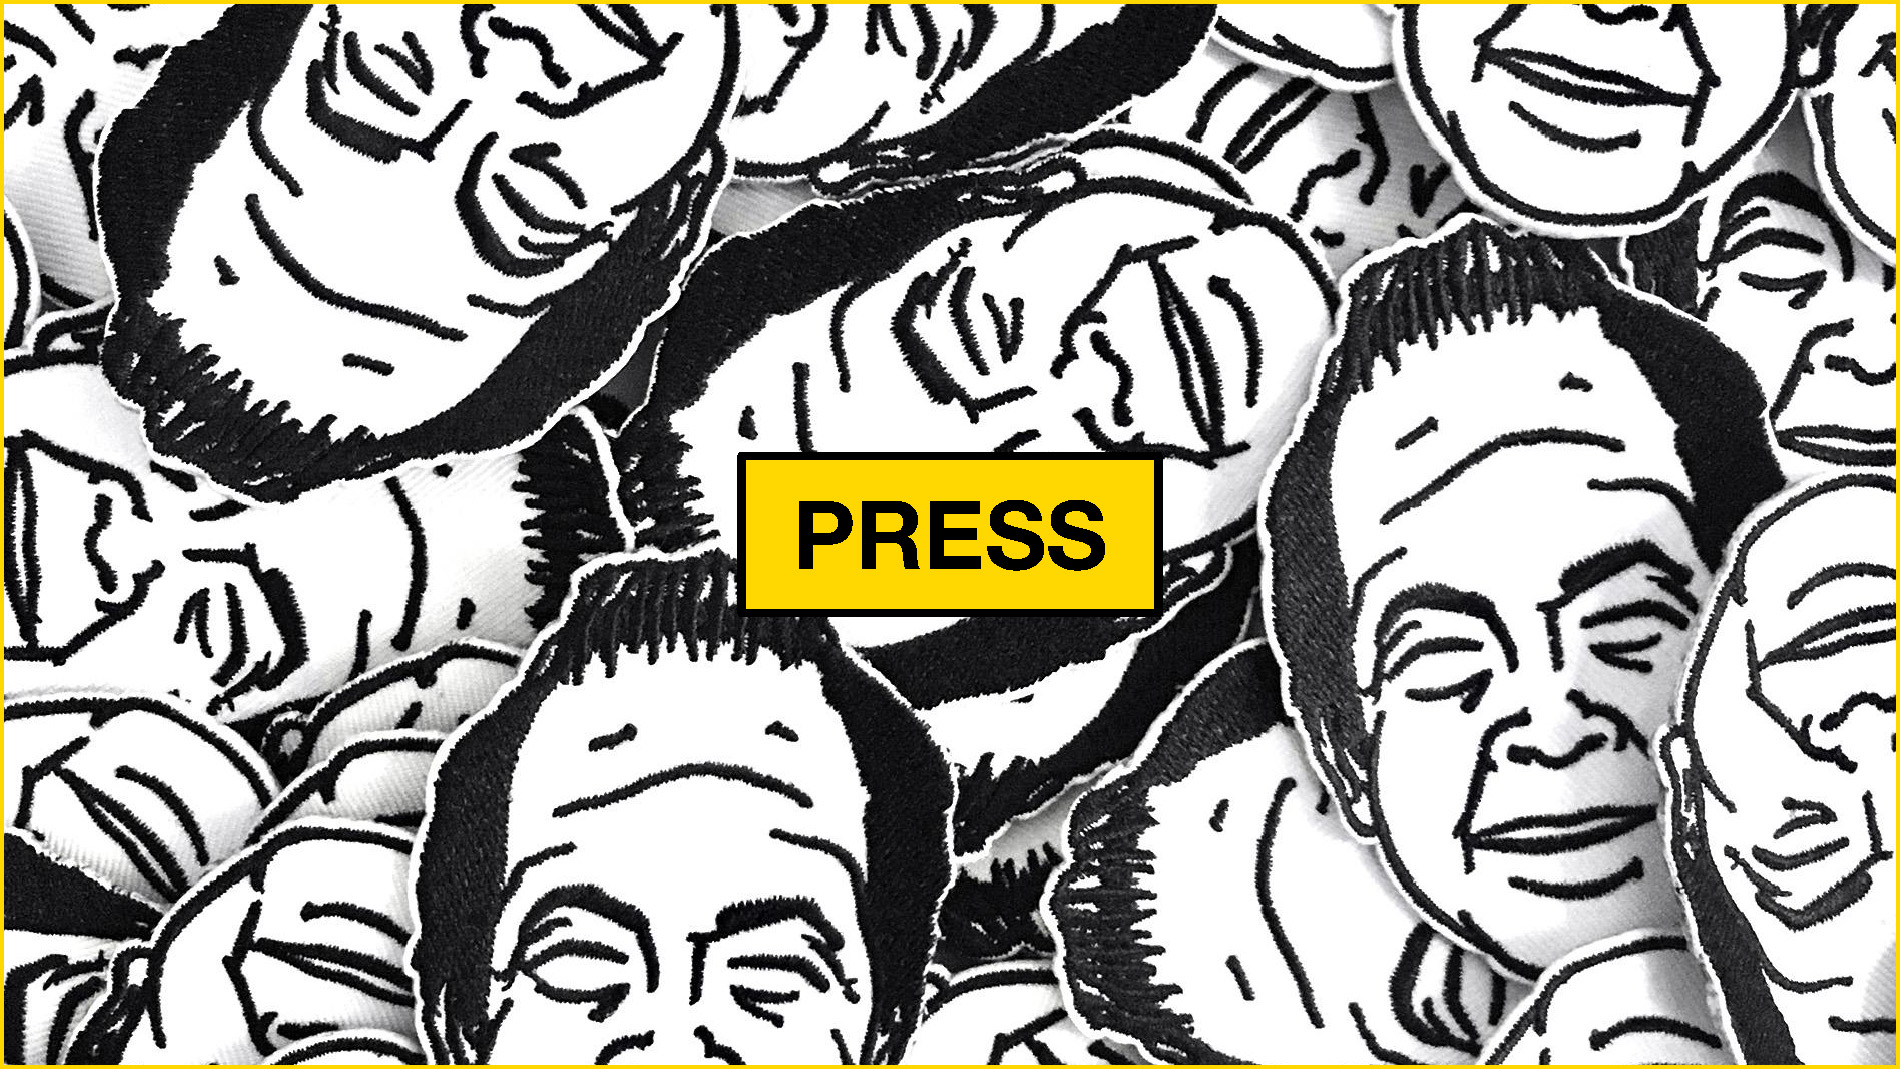
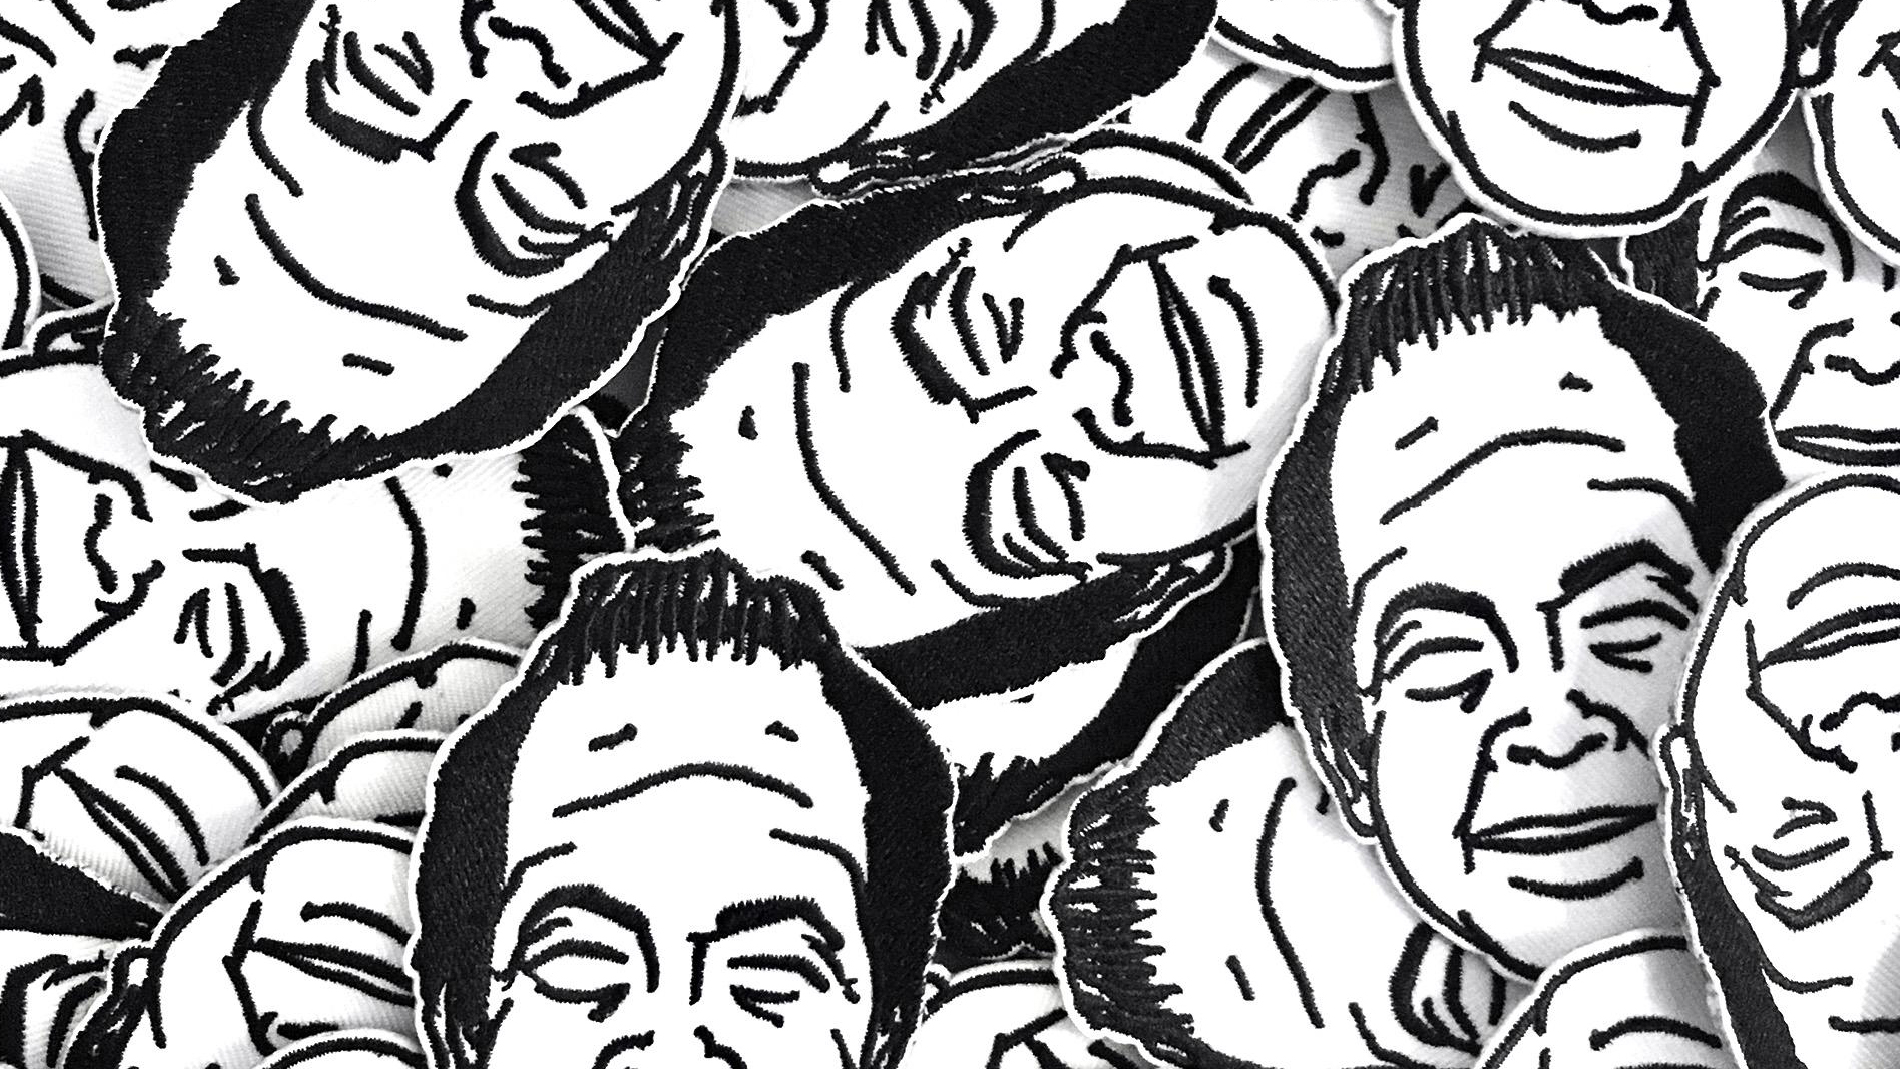
pass 2

Changed region(s): [[0.0, 0.0, 1.0, 1.0], [0.3726, 0.4013, 0.6211, 0.5865]]

diff --git a/index.html b/index.html
@@ -13,46 +13,46 @@
   <meta property="og:image"
     content="media/promo.jpg" />
   <link rel="stylesheet" href="fonts/typefaces.css" type="text/css" />
+  <link rel="stylesheet" href="library/reset.css" type="text/css" />
   <link rel="stylesheet" href="library/style.css" type="text/css" />
 </head>
 
 <body>
     
-<figure class="wp-block-image size-full"><img fetchpriority="high" decoding="async" width="1280" height="720" src="media/CSC-desktop-18.png" alt="" class="wp-image-5995" srcset="media/CSC-desktop-18.png 1280w, media/CSC-desktop-18-700x394.png 700w, media/CSC-desktop-18-1200x675.png 1200w, media/CSC-desktop-18-300x169.png 300w, media/CSC-desktop-18-768x432.png 768w" sizes="(max-width: 1280px) 100vw, 1280px"></figure>
+<figure class="yellow-border"><img fetchpriority="high" decoding="async" width="2560" height="1440" src="media/csc-desktop-01.jpg" alt=""></figure>
 
-<figure class="wp-block-image size-full"><img decoding="async" width="2560" height="1440" src="media/CSC-desktop-17-scaled.jpg" alt="" class="wp-image-5994" srcset="media/CSC-desktop-17-scaled.jpg 2560w, media/CSC-desktop-17-700x394.jpg 700w, media/CSC-desktop-17-1200x675.jpg 1200w, media/CSC-desktop-17-300x169.jpg 300w, media/CSC-desktop-17-768x432.jpg 768w, media/CSC-desktop-17-1536x864.jpg 1536w, media/CSC-desktop-17-2048x1152.jpg 2048w" sizes="(max-width: 2560px) 100vw, 2560px"></figure>
+<figure class="yellow-border"><figcaption><h2>Community</h2></figcaption><img decoding="async" width="1566" height="8676" src="media/csc-desktop-02.jpg" alt="" ></figure>
 
-<figure class="wp-block-image size-full"><img decoding="async" width="1900" height="1069" src="media/CSC-desktop-16.jpg" alt="" class="wp-image-5993" srcset="media/CSC-desktop-16.jpg 1900w, media/CSC-desktop-16-700x394.jpg 700w, media/CSC-desktop-16-1200x675.jpg 1200w, media/CSC-desktop-16-300x169.jpg 300w, media/CSC-desktop-16-768x432.jpg 768w, media/CSC-desktop-16-1536x864.jpg 1536w" sizes="(max-width: 1900px) 100vw, 1900px"></figure>
+<figure><img loading="lazy" decoding="async" width="4000" height="2250" src="media/csc-desktop-03.jpg" alt="" ></figure>
 
-<figure class="wp-block-image size-full"><img loading="lazy" decoding="async" width="2560" height="1440" src="media/CSC-desktop-15-scaled.jpg" alt="" class="wp-image-5992" srcset="media/CSC-desktop-15-scaled.jpg 2560w, media/CSC-desktop-15-700x394.jpg 700w, media/CSC-desktop-15-1200x675.jpg 1200w, media/CSC-desktop-15-300x169.jpg 300w, media/CSC-desktop-15-768x432.jpg 768w, media/CSC-desktop-15-1536x864.jpg 1536w, media/CSC-desktop-15-2048x1152.jpg 2048w" sizes="auto, (max-width: 2560px) 100vw, 2560px"></figure>
+<figure><img loading="lazy" decoding="async" width="4000" height="2250"  src="media/csc-desktop-04.jpg" alt="" ></figure>
 
-<figure class="wp-block-image size-full"><img loading="lazy" decoding="async" width="1900" height="1069" src="media/CSC-desktop-14.jpg" alt="" class="wp-image-5991" srcset="media/CSC-desktop-14.jpg 1900w, media/CSC-desktop-14-700x394.jpg 700w, media/CSC-desktop-14-1200x675.jpg 1200w, media/CSC-desktop-14-300x169.jpg 300w, media/CSC-desktop-14-768x432.jpg 768w, media/CSC-desktop-14-1536x864.jpg 1536w" sizes="auto, (max-width: 1900px) 100vw, 1900px"></figure>
+<figure class="yellow-border"><div class="black-matte"><img loading="lazy" decoding="async" width="2046" height="1128"  src="media/csc-desktop-05.jpg" alt="" ></div></figure>
 
-<figure class="wp-block-image size-full"><img loading="lazy" decoding="async" width="2240" height="1305" src="media/CSC-desktop-13.jpg" alt="" class="wp-image-5990" srcset="media/CSC-desktop-13.jpg 2240w, media/CSC-desktop-13-700x408.jpg 700w, media/CSC-desktop-13-1200x699.jpg 1200w, media/CSC-desktop-13-300x175.jpg 300w, media/CSC-desktop-13-768x447.jpg 768w, media/CSC-desktop-13-1536x895.jpg 1536w, media/CSC-desktop-13-2048x1193.jpg 2048w" sizes="auto, (max-width: 2240px) 100vw, 2240px"></figure>
+<figure class="yellow-border"><figcaption><h2>Collaborations</h2></figcaption><img loading="lazy" decoding="async" width="2950" height="1646"  src="media/csc-desktop-06.jpg" alt="" ></figure>
 
-<figure class="wp-block-image size-full"><img loading="lazy" decoding="async" width="2020" height="1137" src="media/CSC-desktop-12.png" alt="" class="wp-image-5989" srcset="media/CSC-desktop-12.png 2020w, media/CSC-desktop-12-700x394.png 700w, media/CSC-desktop-12-1200x675.png 1200w, media/CSC-desktop-12-300x169.png 300w, media/CSC-desktop-12-768x432.png 768w, media/CSC-desktop-12-1536x865.png 1536w" sizes="auto, (max-width: 2020px) 100vw, 2020px"></figure>
+<figure class="yellow-border"><img loading="lazy" decoding="async" width="3000" height="1688"  src="media/csc-desktop-07.jpg" alt="" ></figure>
 
-<figure class="wp-block-image size-full"><img loading="lazy" decoding="async" width="2560" height="1440" src="media/CSC-desktop-11-scaled.jpg" alt="" class="wp-image-5988" srcset="media/CSC-desktop-11-scaled.jpg 2560w, media/CSC-desktop-11-700x394.jpg 700w, media/CSC-desktop-11-1200x675.jpg 1200w, media/CSC-desktop-11-300x169.jpg 300w, media/CSC-desktop-11-768x432.jpg 768w, media/CSC-desktop-11-1536x864.jpg 1536w, media/CSC-desktop-11-2048x1152.jpg 2048w" sizes="auto, (max-width: 2560px) 100vw, 2560px"></figure>
+<figure class="yellow-border"><figcaption><h2>Exhibitions</h2></figcaption><img loading="lazy" decoding="async" width="1910" height="1075"  src="media/csc-desktop-08.jpg" alt="" ></figure>
 
-<figure class="wp-block-image size-full"><img loading="lazy" decoding="async" width="2320" height="1305" src="media/CSC-desktop-10.png" alt="" class="wp-image-5987" srcset="media/CSC-desktop-10.png 2320w, media/CSC-desktop-10-700x394.png 700w, media/CSC-desktop-10-1200x675.png 1200w, media/CSC-desktop-10-300x169.png 300w, media/CSC-desktop-10-768x432.png 768w, media/CSC-desktop-10-1536x864.png 1536w, media/CSC-desktop-10-2048x1152.png 2048w" sizes="auto, (max-width: 2320px) 100vw, 2320px"></figure>
+<figure class="yellow-border"><img loading="lazy" decoding="async" width="3000" height="1688"  src="media/csc-desktop-09.jpg" alt="" ></figure>
 
-<figure class="wp-block-image size-full"><img loading="lazy" decoding="async" width="2560" height="1440" src="media/CSC-desktop-9-scaled.jpg" alt="" class="wp-image-5986" srcset="media/CSC-desktop-9-scaled.jpg 2560w, media/CSC-desktop-9-700x394.jpg 700w, media/CSC-desktop-9-1200x675.jpg 1200w, media/CSC-desktop-9-300x169.jpg 300w, media/CSC-desktop-9-768x432.jpg 768w, media/CSC-desktop-9-1536x864.jpg 1536w, media/CSC-desktop-9-2048x1152.jpg 2048w" sizes="auto, (max-width: 2560px) 100vw, 2560px"></figure>
+<figure class="yellow-border"><figcaption><h2>Events</h2></figcaption><img loading="lazy" decoding="async" width="2320" height="1305"  src="media/csc-desktop-10.png" alt="" ></figure>
 
-<figure class="wp-block-image size-full"><img loading="lazy" decoding="async" width="1910" height="1075" src="media/CSC-desktop-8.jpg" alt="" class="wp-image-5985" srcset="media/CSC-desktop-8.jpg 1910w, media/CSC-desktop-8-700x394.jpg 700w, media/CSC-desktop-8-1200x675.jpg 1200w, media/CSC-desktop-8-300x169.jpg 300w, media/CSC-desktop-8-768x432.jpg 768w, media/CSC-desktop-8-1536x865.jpg 1536w" sizes="auto, (max-width: 1910px) 100vw, 1910px"></figure>
+<figure class="yellow-border"><img loading="lazy" decoding="async" width="3000" height="1688"  src="media/csc-desktop-11.jpg" alt="" ></figure>
 
-<figure class="wp-block-image size-full"><img loading="lazy" decoding="async" width="2560" height="1440" src="media/CSC-desktop-7-scaled.jpg" alt="" class="wp-image-5984" srcset="media/CSC-desktop-7-scaled.jpg 2560w, media/CSC-desktop-7-700x394.jpg 700w, media/CSC-desktop-7-1200x675.jpg 1200w, media/CSC-desktop-7-300x169.jpg 300w, media/CSC-desktop-7-768x432.jpg 768w, media/CSC-desktop-7-1536x864.jpg 1536w, media/CSC-desktop-7-2048x1152.jpg 2048w" sizes="auto, (max-width: 2560px) 100vw, 2560px"></figure>
+<figure class="red-border"><figcaption><h2>Printed Matter</h2></figcaption><img loading="lazy" decoding="async" width="2020" height="1137"  src="media/csc-desktop-12.png" alt="" ></figure>
 
-<figure class="wp-block-image size-full"><img loading="lazy" decoding="async" width="1950" height="1097" src="media/CSC-desktop-6.jpg" alt="" class="wp-image-5983" srcset="media/CSC-desktop-6.jpg 1950w, media/CSC-desktop-6-700x394.jpg 700w, media/CSC-desktop-6-1200x675.jpg 1200w, media/CSC-desktop-6-300x169.jpg 300w, media/CSC-desktop-6-768x432.jpg 768w, media/CSC-desktop-6-1536x864.jpg 1536w" sizes="auto, (max-width: 1950px) 100vw, 1950px"></figure>
+<figure class="yellow-border"><img loading="lazy" decoding="async" width="2240" height="1305"  src="media/csc-desktop-13.jpg" alt="" ></figure>
 
-<figure class="wp-block-image size-full"><img loading="lazy" decoding="async" width="2130" height="1199" src="media/CSC-desktop-5.jpg" alt="" class="wp-image-5982" srcset="media/CSC-desktop-5.jpg 2130w, media/CSC-desktop-5-700x394.jpg 700w, media/CSC-desktop-5-1200x675.jpg 1200w, media/CSC-desktop-5-300x169.jpg 300w, media/CSC-desktop-5-768x432.jpg 768w, media/CSC-desktop-5-1536x865.jpg 1536w, media/CSC-desktop-5-2048x1153.jpg 2048w" sizes="auto, (max-width: 2130px) 100vw, 2130px"></figure>
+<figure class="yellow-border"><figcaption><h2>Merch</h2></figcaption><img loading="lazy" decoding="async" width="1900" height="1069"  src="media/csc-desktop-14.jpg" alt="" ></figure>
 
-<figure class="wp-block-image size-full"><img loading="lazy" decoding="async" width="2560" height="1440" src="media/CSC-desktop-4-scaled.jpg" alt="" class="wp-image-5981" srcset="media/CSC-desktop-4-scaled.jpg 2560w, media/CSC-desktop-4-700x394.jpg 700w, media/CSC-desktop-4-1200x675.jpg 1200w, media/CSC-desktop-4-300x169.jpg 300w, media/CSC-desktop-4-768x432.jpg 768w, media/CSC-desktop-4-1536x864.jpg 1536w, media/CSC-desktop-4-2048x1152.jpg 2048w" sizes="auto, (max-width: 2560px) 100vw, 2560px"></figure>
+<figure class="yellow-border"><img loading="lazy" decoding="async" width="4000" height="2250"  src="media/csc-desktop-15.jpg" alt="" ></figure>
 
-<figure class="wp-block-image size-full"><img loading="lazy" decoding="async" width="2560" height="1440" src="media/CSC-desktop-3-scaled.jpg" alt="" class="wp-image-5980" srcset="media/CSC-desktop-3-scaled.jpg 2560w, media/CSC-desktop-3-700x394.jpg 700w, media/CSC-desktop-3-1200x675.jpg 1200w, media/CSC-desktop-3-300x169.jpg 300w, media/CSC-desktop-3-768x432.jpg 768w, media/CSC-desktop-3-1536x864.jpg 1536w, media/CSC-desktop-3-2048x1152.jpg 2048w" sizes="auto, (max-width: 2560px) 100vw, 2560px"></figure>
+<figure class="yellow-border"><figcaption><h2>Press</h2></figcaption><img loading="lazy" decoding="async" width="1900" height="1069"  src="media/csc-desktop-16.jpg" alt="" ></figure>
+<figure class="yellow-border"><img loading="lazy" decoding="async" width="3000" height="1748"  src="media/csc-desktop-17.jpg" alt="" ></figure>
+<figure class="yellow-border"><img decoding="async" width="2560" height="1440" src="media/csc-desktop-01.jpg" alt=""></figure>
 
-<figure class="wp-block-image size-full"><img loading="lazy" decoding="async" width="1570" height="884" src="media/CSC-desktop-2.jpg" alt="" class="wp-image-5979" srcset="media/CSC-desktop-2.jpg 1570w, media/CSC-desktop-2-700x394.jpg 700w, media/CSC-desktop-2-1200x676.jpg 1200w, media/CSC-desktop-2-300x169.jpg 300w, media/CSC-desktop-2-768x432.jpg 768w, media/CSC-desktop-2-1536x865.jpg 1536w" sizes="auto, (max-width: 1570px) 100vw, 1570px"></figure>
-
-<figure class="wp-block-image size-full"><img loading="lazy" decoding="async" width="1280" height="720" src="media/CSC-desktop-1.png" alt="" class="wp-image-5978" srcset="media/CSC-desktop-1.png 1280w, media/CSC-desktop-1-700x394.png 700w, media/CSC-desktop-1-1200x675.png 1200w, media/CSC-desktop-1-300x169.png 300w, media/CSC-desktop-1-768x432.png 768w" sizes="auto, (max-width: 1280px) 100vw, 1280px"></figure>
 
 </body>
 

diff --git a/library/style.css b/library/style.css
@@ -1,80 +1,31 @@
 :root {
-  --textcolor: #ffd700;
-  --sans: nyt-franklin, helvetica, arial, sans-serif;
-  --serif: nyt-cheltenham, georgia, "Times New Roman", serif;
+  --textcolor: #000;
+  --csc-yellow: #ffd700;
+  --csc-red: red;
+  --sans: 'helvetica neue', helvetica, arial, sans-serif;
 }
 
 html {
-  scrollbar-color: var(--textcolor) #000;
+  scrollbar-color: var(--csc-red) #000;
   scrollbar-width: thin;
   scroll-snap-type: y mandatory;
 }
+
 @media (min-width: 1024px) {
   html {
-    scrollbar-color: var(--textcolor) #000;
-    scrollbar-width: thin;
+    scrollbar-color: var(--csc-red) #000;
+    scrollbar-width: thick;
   }
 }
 
 body,
 html {
-  background: var(--textcolor);
+  background: var(--csc-yellow);
   margin: 0;
   font-family: var(--sans);
-  color: red;
   color: var(--textcolor);
 }
 
-h2 {
-  position: absolute;
-  bottom: 0;
-  margin: 0;
-  padding: 4rem;
-  opacity: 1;
-  font-size: 1.5rem;
-  line-height: 1.1;
-  font-weight: 800;
-  z-index: 100;
-}
-
-aside {
-  position: absolute;
-  top: 0;
-  left: 0;
-  z-index: 100;
-  padding: 4rem;
-}
-aside p {
-  font-size: 40px;
-  margin: 0;
-  line-height: 1.1;
-  font-weight: 300;
-  font-family: var(--serif);
-}
-aside p a {
-  color: inherit;
-  text-decoration: underline;
-  text-decoration-color: var(--textcolor);
-  text-decoration-thickness: 2px;
-  text-underline-offset: 4px;
-}
-aside p a:hover {
-  text-decoration: none;
-}
-aside p strong {
-  font-weight: 800;
-  margin-right: 1rem;
-  font-family: var(--sans);
-}
-
-h1,
-h2 {
-  animation: fadeIn 4s ease-out;
-  -webkit-animation: fadeIn 4s ease-out;
-  -moz-animation: fadeIn 4s ease-out;
-  -o-animation: fadeIn 4s ease-out;
-  -ms-animation: fadeIn 4s ease-out;
-}
 
 h1 {
   top: 0;
@@ -95,32 +46,26 @@ h1 {
   0% {
     opacity: 0;
   }
+
   100% {
     opacity: 1;
   }
 }
+
 @keyframes photoFadeIn {
   0% {
     opacity: 1;
   }
+
   100% {
     opacity: 0.25;
   }
 }
+
 img {
   width: 100%;
   height: 100%;
   object-fit: cover;
-}
-
-img.nyt-logo {
-  width: 29px;
-  height: 37px;
-  object-fit: unset;
-  position: fixed;
-  bottom: 2rem;
-  right: 2rem;
-  z-index: 100;
 }
 
 figure,
@@ -131,18 +76,42 @@ picture {
   scroll-snap-align: start;
   position: relative;
   background-color: black;
+
+  &.yellow-border {
+    border: 6px solid var(--csc-yellow);
+  }
+
+  &.red-border {
+    border: 6px solid var(--csc-red);
+  }
+
+  div.black-matte {
+    padding: 2rem;
+    height: 100vh;
+    background-color: black;
+  }
 }
 
 figcaption {
   position: absolute;
-  bottom: 0;
-  left: 0;
-  padding: 4rem;
-  opacity: 1;
-  font-size: 1.5rem;
-  line-height: 1.1;
-  font-weight: 800;
+  height: 100%;
+  width: 100%;
   z-index: 100;
+  display: flex;
+  justify-content: center;
+  align-items: center;
+
+  h2 {
+    background: var(--csc-yellow);
+    color: black;
+    border: black 6px solid;
+    padding: 2rem;
+    opacity: 1;
+    font-size: 7vh;
+    text-transform: uppercase;
+    line-height: 1.1;
+    font-weight: 700;
+  }
 }
 
 img.intro {
@@ -176,11 +145,13 @@ figure.vertical {
   justify-content: center;
   align-items: flex-end;
 }
+
 figure.vertical img {
   width: auto;
   height: 100%;
   object-fit: unset;
 }
+
 figure.vertical figcaption {
   position: unset;
 }
@@ -188,5 +159,3 @@ figure.vertical figcaption {
 figure.inset-white {
   background: white;
 }
-
-/*# sourceMappingURL=style.css.map */
